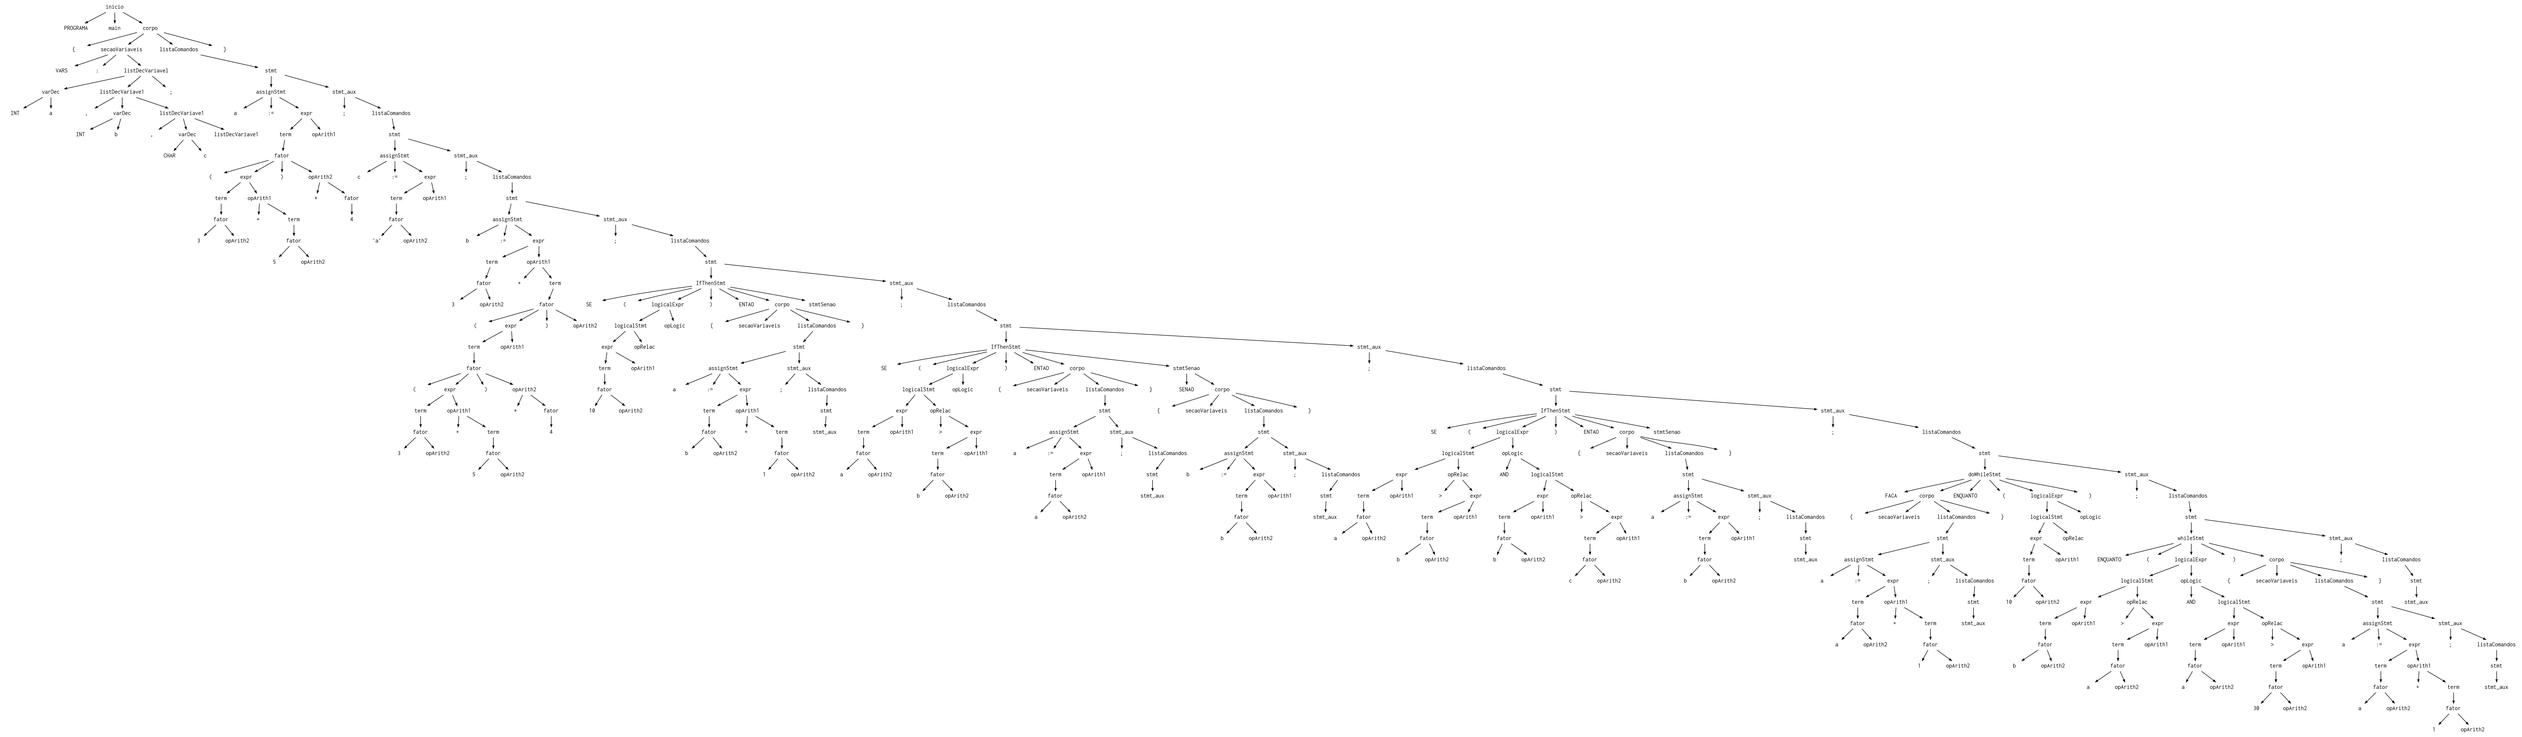
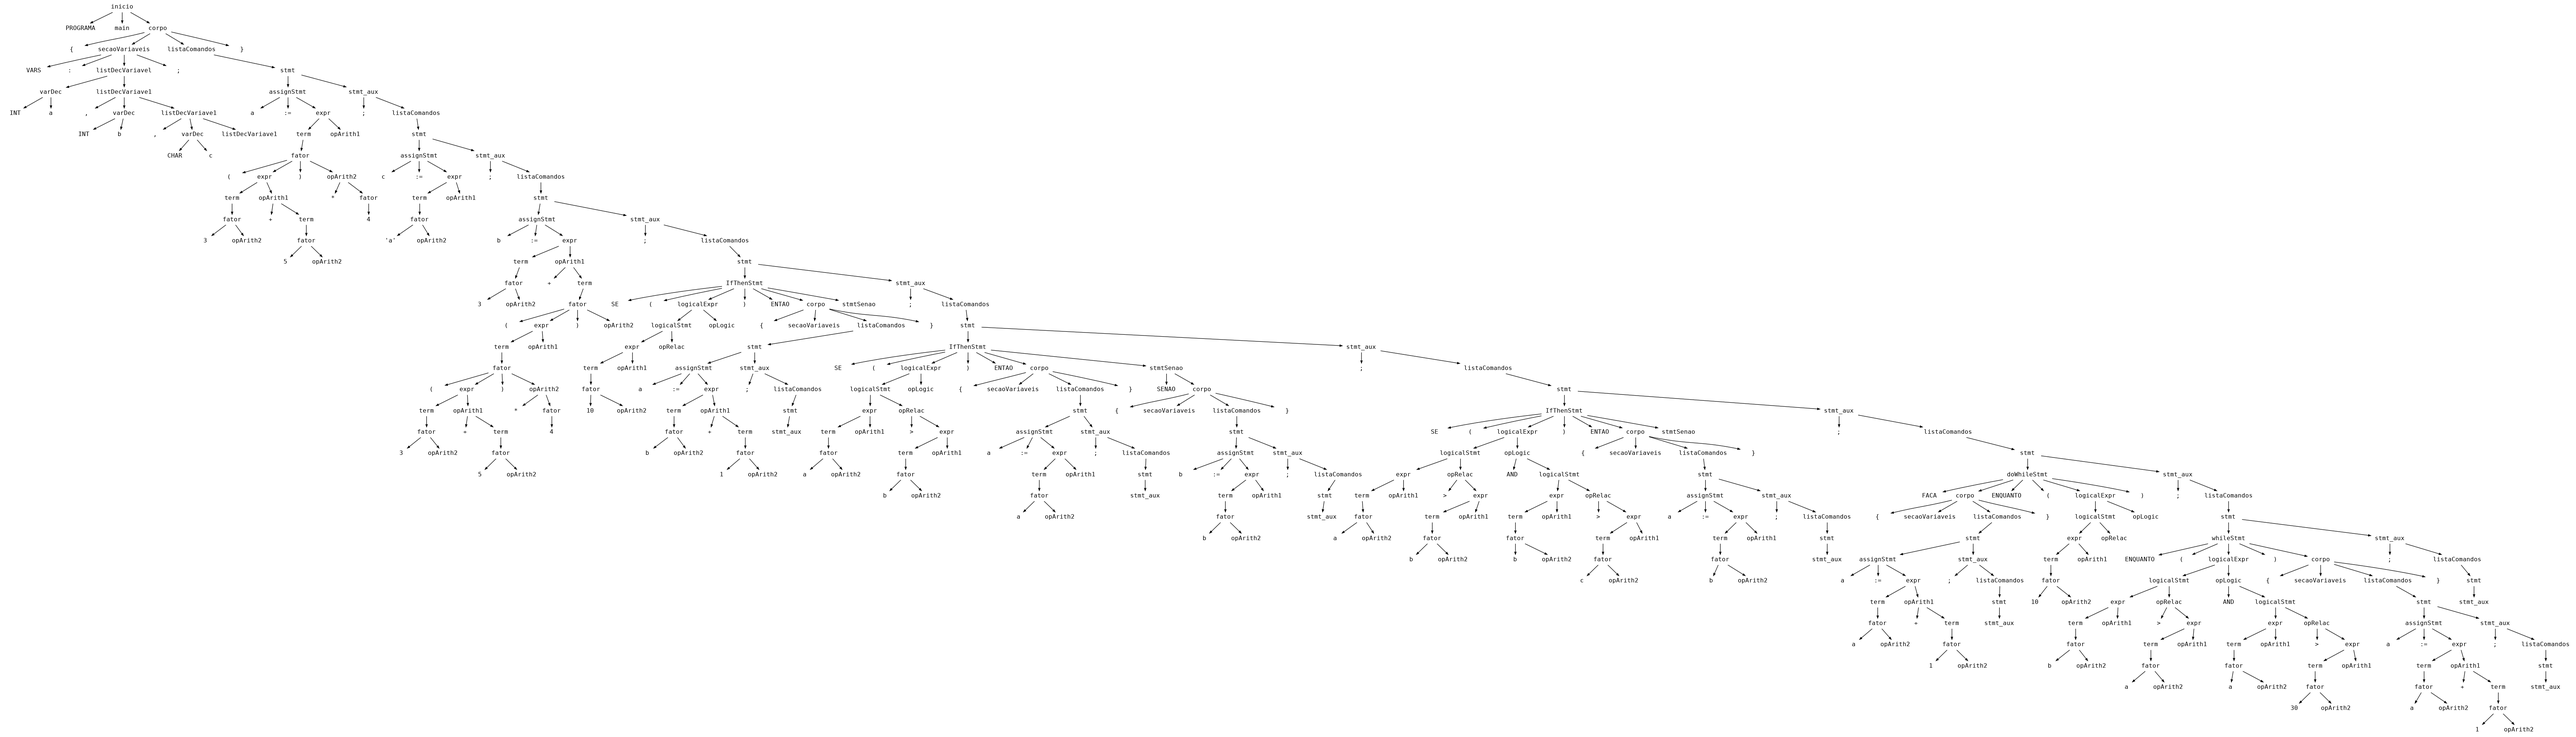
corrigi os últimos erros, adicionei comentários, corrigi erro sem _save no listgDecVarial

diff --git a/front-end/lexer.py b/front-end/lexer.py
@@ -2,8 +2,6 @@ import re
 from typing import NamedTuple
 
 
-
-
 class Token(NamedTuple):
     type: str
     value: str
@@ -50,10 +48,17 @@ class Lexer:
             ('EOF', r'\Z'),
             ('MISMATCH', r'.'),           
         ]
+
+        # A regra (?P<name>regex) é um "named captruing group". Ou seja, o regex que
+        # está escrito depois de <> pode ser acessado pelo symbolic group que no caso é name
+        # aí todos os tokens acima são juntados numa string só, cada um com seu regex e seu symbolic 
+        # name, separados por | que o operador de OR do regex.
+        # http://www.regular-expressions.info/named.html
         tok_regex = '|'.join('(?P<%s>%s)' % pair for pair in token_specification)
         line_num = 1
         line_start = 0
-        # mo é um matchObject
+        # mo é um matchObject. finditer retorna uma lista de todos os matches que foram encontrados 
+        # levando em consideração o tok_regex e a entrada de texto passada (code)
         for mo in re.finditer(tok_regex, code):
 
             # a primeira vez que ele lê as keywords, ele considera elas um ID.
@@ -68,13 +73,14 @@ class Lexer:
                 elif value == 'OR':
                     tipo = 'OPOr'
                 elif value == 'NOT':
-                            tipo = 'opNot'  
+                    tipo = 'opNot'  
+                # esses 3 elifs nem precisam mais:
                 elif value == 'int':
-                            tipo = 'tipoInt'       
+                    tipo = 'tipoInt'       
                 elif value == 'real':
-                            tipo = 'tipoReal'
+                    tipo = 'tipoReal'
                 elif value == 'char':
-                            tipo = 'tipoChar'
+                    tipo = 'tipoChar'
                 else:
                     tipo = value.upper()
             elif tipo == 'NEWLINE':

diff --git a/front-end/parser.py b/front-end/parser.py
@@ -70,7 +70,7 @@ class Parser:
             self.root = node
         else:
             self.current_node.add(node)
-            
+
         _save = self.current_node
         self.current_node = node
 
@@ -115,12 +115,15 @@ class Parser:
             self.root = node
         else:
             self.current_node.add(node)
-            
+        
+        _save = self.current_node
         self.current_node = node
 
         token = self.current_token
         self.varDec()
         self.listDecVariavel1()
+        self.current_node = _save
+
         # if token.type in (INT,REAL,CHAR):
         #     self.eat(token.type)
         #     self.eat(ID)

diff --git a/front-end/parsetreevisualizer.py b/front-end/parsetreevisualizer.py
@@ -15,6 +15,8 @@ class ParseTreeVisualizer(object):
         self.dot_body = []
         self.dot_footer = ['}']
 
+
+    # Breadth-first search  
     def bfs(self, node):
         ncount = 1
         queue = []
